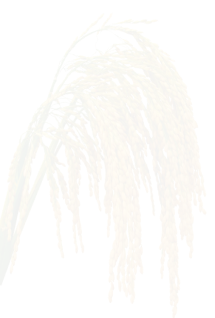
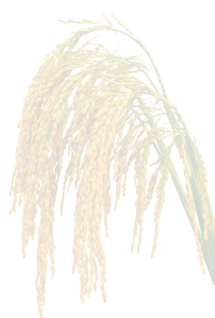
product done

diff --git a/index.html b/index.html
@@ -44,9 +44,6 @@
 
 <body>
     <!-- Header -->
-    <!-- <div id="header"></div> -->
-
-
     <header class="bg-white py-[10px]">
         <div class="max-w-[1440px] h-[79px] mx-auto flex justify-between items-center">
             <!-- Logo and Brand Name -->
@@ -74,7 +71,6 @@
             </div>
         </div>
     </header>
-
     <!-- Hero Section -->
     <section class="bg-[#25395F] py-11 relative">
         <div class="max-w-[1440px] flex mx-auto">
@@ -121,10 +117,9 @@
             </div>
         </div>
         <div class="absolute bottom-0 left-0">
-            <img src="assets/images/pngwing 7.png" alt="">
+            <img src="assets/images/light.png" alt="">
         </div>
     </section>
-
     <!-- About us  -->
     <section>
         <div class="relative">
@@ -183,7 +178,6 @@
             </div>
     </section>
     </div>
-
     <!-- product section -->
     <section>
         <div class="relative">
@@ -298,11 +292,8 @@
             </div>
         </div>
     </section>
-
-
     <!-- counter  -->
     <section class="bg-[#25395F] py-12  bg-cover bg-center">
-
         <div class="max-w-[1440px] mx-auto px-4 py-6 grid grid-cols-1 sm:grid-cols-2 lg:grid-cols-4 gap-6">
             <!-- Card 1 -->
             <div class="relative w-full h-[150px] border-2 border-white ">
@@ -354,7 +345,6 @@
             </div>
         </div>
     </section>
-
     <!-- Blog -->
     <div class="relative p-3">
         <div
@@ -481,15 +471,179 @@
 
         </div>
         <div class="relative">
-            <img src="assets/images/pngwing 7.png" alt="" class="absolute bottom-0 right-0 opacity-[30%]">
+            <img src="assets/images/pngwing 7.png" alt="" class="absolute bottom-0 right-0 ">
         </div>
     </section>
 
+    <!-- products -->
+    <section>
+        <section class="bg-white py-16">
+            <div class=" flex flex-col lg:flex-row items-center lg:items-start ">
+                <!-- Left Section with Image -->
+                <div class="">
+                    <img src="assets/images/Rectangle 1100.png" alt="Farmer"
+                        class="rounded-[10px]  object-cover w-full h-[509px]">
+                </div>
 
+                <!-- Right Section with Content -->
+
+                <div class="flex-1 bg-[#273a60] text-white rounded-lg shadow-md ps-8 pe-40 py-16 h-[477px] mt-14 ">
+                    <div>
+                        <p
+                            class="uppercase mb-2 text-[#EF7F1A] text-[16px] font-normal leading-[17px] text-left flex items-center font-nunito">
+                            WHY CHOOSE US
+                            <span class="flex items-center ms-2">
+                                <span class="w-10 h-[2px] bg-orange-500"></span>
+                                <span class="w-2 h-2 bg-orange-500 rounded-full"></span>
+                            </span>
+                        </p>
+                    </div>
+                    <h2 class="text-[50px] font-extrabold leading-[50 px] mt-2 font-nunito">
+                        We Providing More Fresh Products
+                    </h2>
+                    <p class="text-[#fff] mt-4 font-nunito text-[18px] leading-[25px] font-medium">
+                        Tropical Trade Corporation is positioned at Gujarat, India. We have carved a distinct position
+                        in offering a
+                        wide range of products that includes Food & Agro, Ceramic Tiles, Hotel Supplies, Plastic
+                        Products, Printing &
+                        Merchandising & etc.
+                    </p>
+
+                    <!-- Feature Cards -->
+                    <div class="mt-6 ">
+                        <!-- Card 1 -->
+                        <div class="flex justify-between">
+                            <div class="">
+                                <div class="">
+                                    <img src="assets/images/Frame1.png" alt="Warranty Icon" class="">
+                                </div>
+                                <div>
+                                    <h3 class="text-white text-[22px] leading-[25px] mt-3 font-bold font-nunito">
+                                        Extended Warranty</h3>
+                                    <p class="text-[#D1D5DB] text-[18px] leading-[20px] mt-1 font-nunito">
+                                        Freshness, great taste, purity, high, the main <br> attributes products.
+                                    </p>
+                                </div>
+                            </div>
+
+                            <!-- Card 2 -->
+                            <div class="">
+                                <div class="justify-end">
+                                    <img src="assets/images//Frame3.png" alt="Support Icon" class="">
+                                </div>
+                                <div>
+                                    <h3 class="text-white text-[22px] leading-[25px]  font-bold font-nunito">Friendly
+                                        Support</h3>
+                                    <p class="text-[#D1D5DB] text-[18px] leading-[20px] mt-1 font-nunito">
+                                        Freshness, great taste, purity, high, the main <br> attributes products.
+                                    </p>
+                                </div>
+                            </div>
+                        </div>
+                    </div>
+                </div>
+            </div>
+        </section>
+
+    </section>
+
+    <!-- Team -->
+    <section class="">
+        <div class="relative">
+            <div class="absolute top-[-65px] right-0 ">
+                <img src="assets/images/pngwing 8.png" alt="">
+            </div>
+        </div>
+        <div class="max-w-[1440px] mx-auto px-4 py-16">
+            <!-- Title Section -->
+            <div class="text-center mb-12">
+                <p
+                    class="uppercase text-[#EF7F1A] font-bold text-[16px] leading-[17px] flex items-center justify-center">
+                    What We Do For You
+                    <span class="flex items-center ms-2">
+                        <span class="w-10 h-[2px] bg-orange-500"></span>
+                        <span class="w-2 h-2 bg-orange-500 rounded-full"></span>
+                    </span>
+                </p>
+                <h2 class="text-[#1E1E1E] text-[40px] font-extrabold mt-4">
+                    We Provide Our Service With Our Expert Team
+                </h2>
+            </div>
+
+            <!-- Team Cards -->
+            <div class="grid grid-cols-1 sm:grid-cols-2 lg:grid-cols-4 gap-6">
+                <!-- Card 1 -->
+                <div class="relative group">
+                    <img src="assets/images/char1.png" alt="Emily Blunts"
+                        class="rounded-lg object-cover w-full h-[300px]">
+                    <div
+                        class="absolute inset-0 bg-[#263B61] bg-opacity-70 rounded-lg flex flex-col items-center justify-center opacity-0 group-hover:opacity-100 transition-opacity duration-300">
+                        <!-- <div class="space-y-4">
+                            <a href="#" class="text-white text-[16px]"><i class="fab fa-linkedin"></i> LinkedIn</a>
+                            <a href="#" class="text-white text-[16px]"><i class="fab fa-facebook"></i> Facebook</a>
+                        </div> -->
+                    </div>
+                    <div class="text-center mt-4">
+                        <h3 class="text-[#1E1E1E] font-bold text-[18px]">Emily Blunts</h3>
+                        <p class="text-[#7F7F7F] text-[14px]">CEO Interior</p>
+                    </div>
+                </div>
+
+                <!-- Card 2 -->
+                <div class="relative group">
+                    <img src="assets/images/char2.png" alt="Willie Rocke"
+                        class="rounded-lg object-cover w-full h-[300px]">
+                    <div
+                        class="absolute inset-0 bg-[#263B61] bg-opacity-70 rounded-lg flex flex-col items-center justify-center opacity-0 group-hover:opacity-100 transition-opacity duration-300">
+                        <!-- <div class="space-y-4">
+                            <a href="#" class="text-white text-[16px]"><i class="fab fa-linkedin"></i> LinkedIn</a>
+                            <a href="#" class="text-white text-[16px]"><i class="fab fa-facebook"></i> Facebook</a>
+                        </div> -->
+                    </div>
+                    <div class="text-center mt-4">
+                        <h3 class="text-[#1E1E1E] font-bold text-[18px]">Willie Rocke</h3>
+                        <p class="text-[#7F7F7F] text-[14px]">CEO Interior</p>
+                    </div>
+                </div>
+
+                <!-- Card 3 -->
+                <div class="relative group">
+                    <img src="assets/images/char3.png" alt="Jean Scotter"
+                        class="rounded-lg object-cover w-full h-[300px]">
+                    <div
+                        class="absolute inset-0 bg-[#263B61] bg-opacity-70 rounded-lg flex flex-col items-center justify-center opacity-0 group-hover:opacity-100 transition-opacity duration-300">
+                        <!-- <div class="space-y-4">
+                            <a href="#" class="text-white text-[16px]"><i class="fab fa-linkedin"></i> LinkedIn</a>
+                            <a href="#" class="text-white text-[16px]"><i class="fab fa-facebook"></i> Facebook</a>
+                        </div> -->
+                    </div>
+                    <div class="text-center mt-4">
+                        <h3 class="text-[#1E1E1E] font-bold text-[18px]">Jean Scotter</h3>
+                        <p class="text-[#7F7F7F] text-[14px]">CEO Interior</p>
+                    </div>
+                </div>
+
+                <!-- Card 4 -->
+                <div class="relative">
+                    <div class="group">
+                        <img src="assets/images/char4.png" alt="Mendas Root"
+                            class="rounded-lg object-cover w-full h-[300px]">
+                        <div
+                            class="absolute inset-0 bg-[#263B61] bg-opacity-70 rounded-lg flex flex-col items-center justify-center opacity-0 group-hover:opacity-100 transition-opacity duration-300">
+                            <!-- <div class="space-y-4">
+                            <a href="#" class="text-white text-[16px]"><i class="fab fa-linkedin"></i> LinkedIn</a>
+                            <a href="#" class="text-white text-[16px]"><i class="fab fa-facebook"></i> Facebook</a>
+                        </div> -->
+                        </div>
+                    </div>
+                    <div class="text-center mt-4">
+                        <h3 class="text-[#1E1E1E] font-bold text-[18px]">Mendas Root</h3>
+                        <p class="text-[#7F7F7F] text-[14px]">CEO Interior</p>
+                    </div>
+                </div>
+            </div>
+        </div>
+    </section>
 </body>
 
 </html>
-
-<script>
-
-</script>
